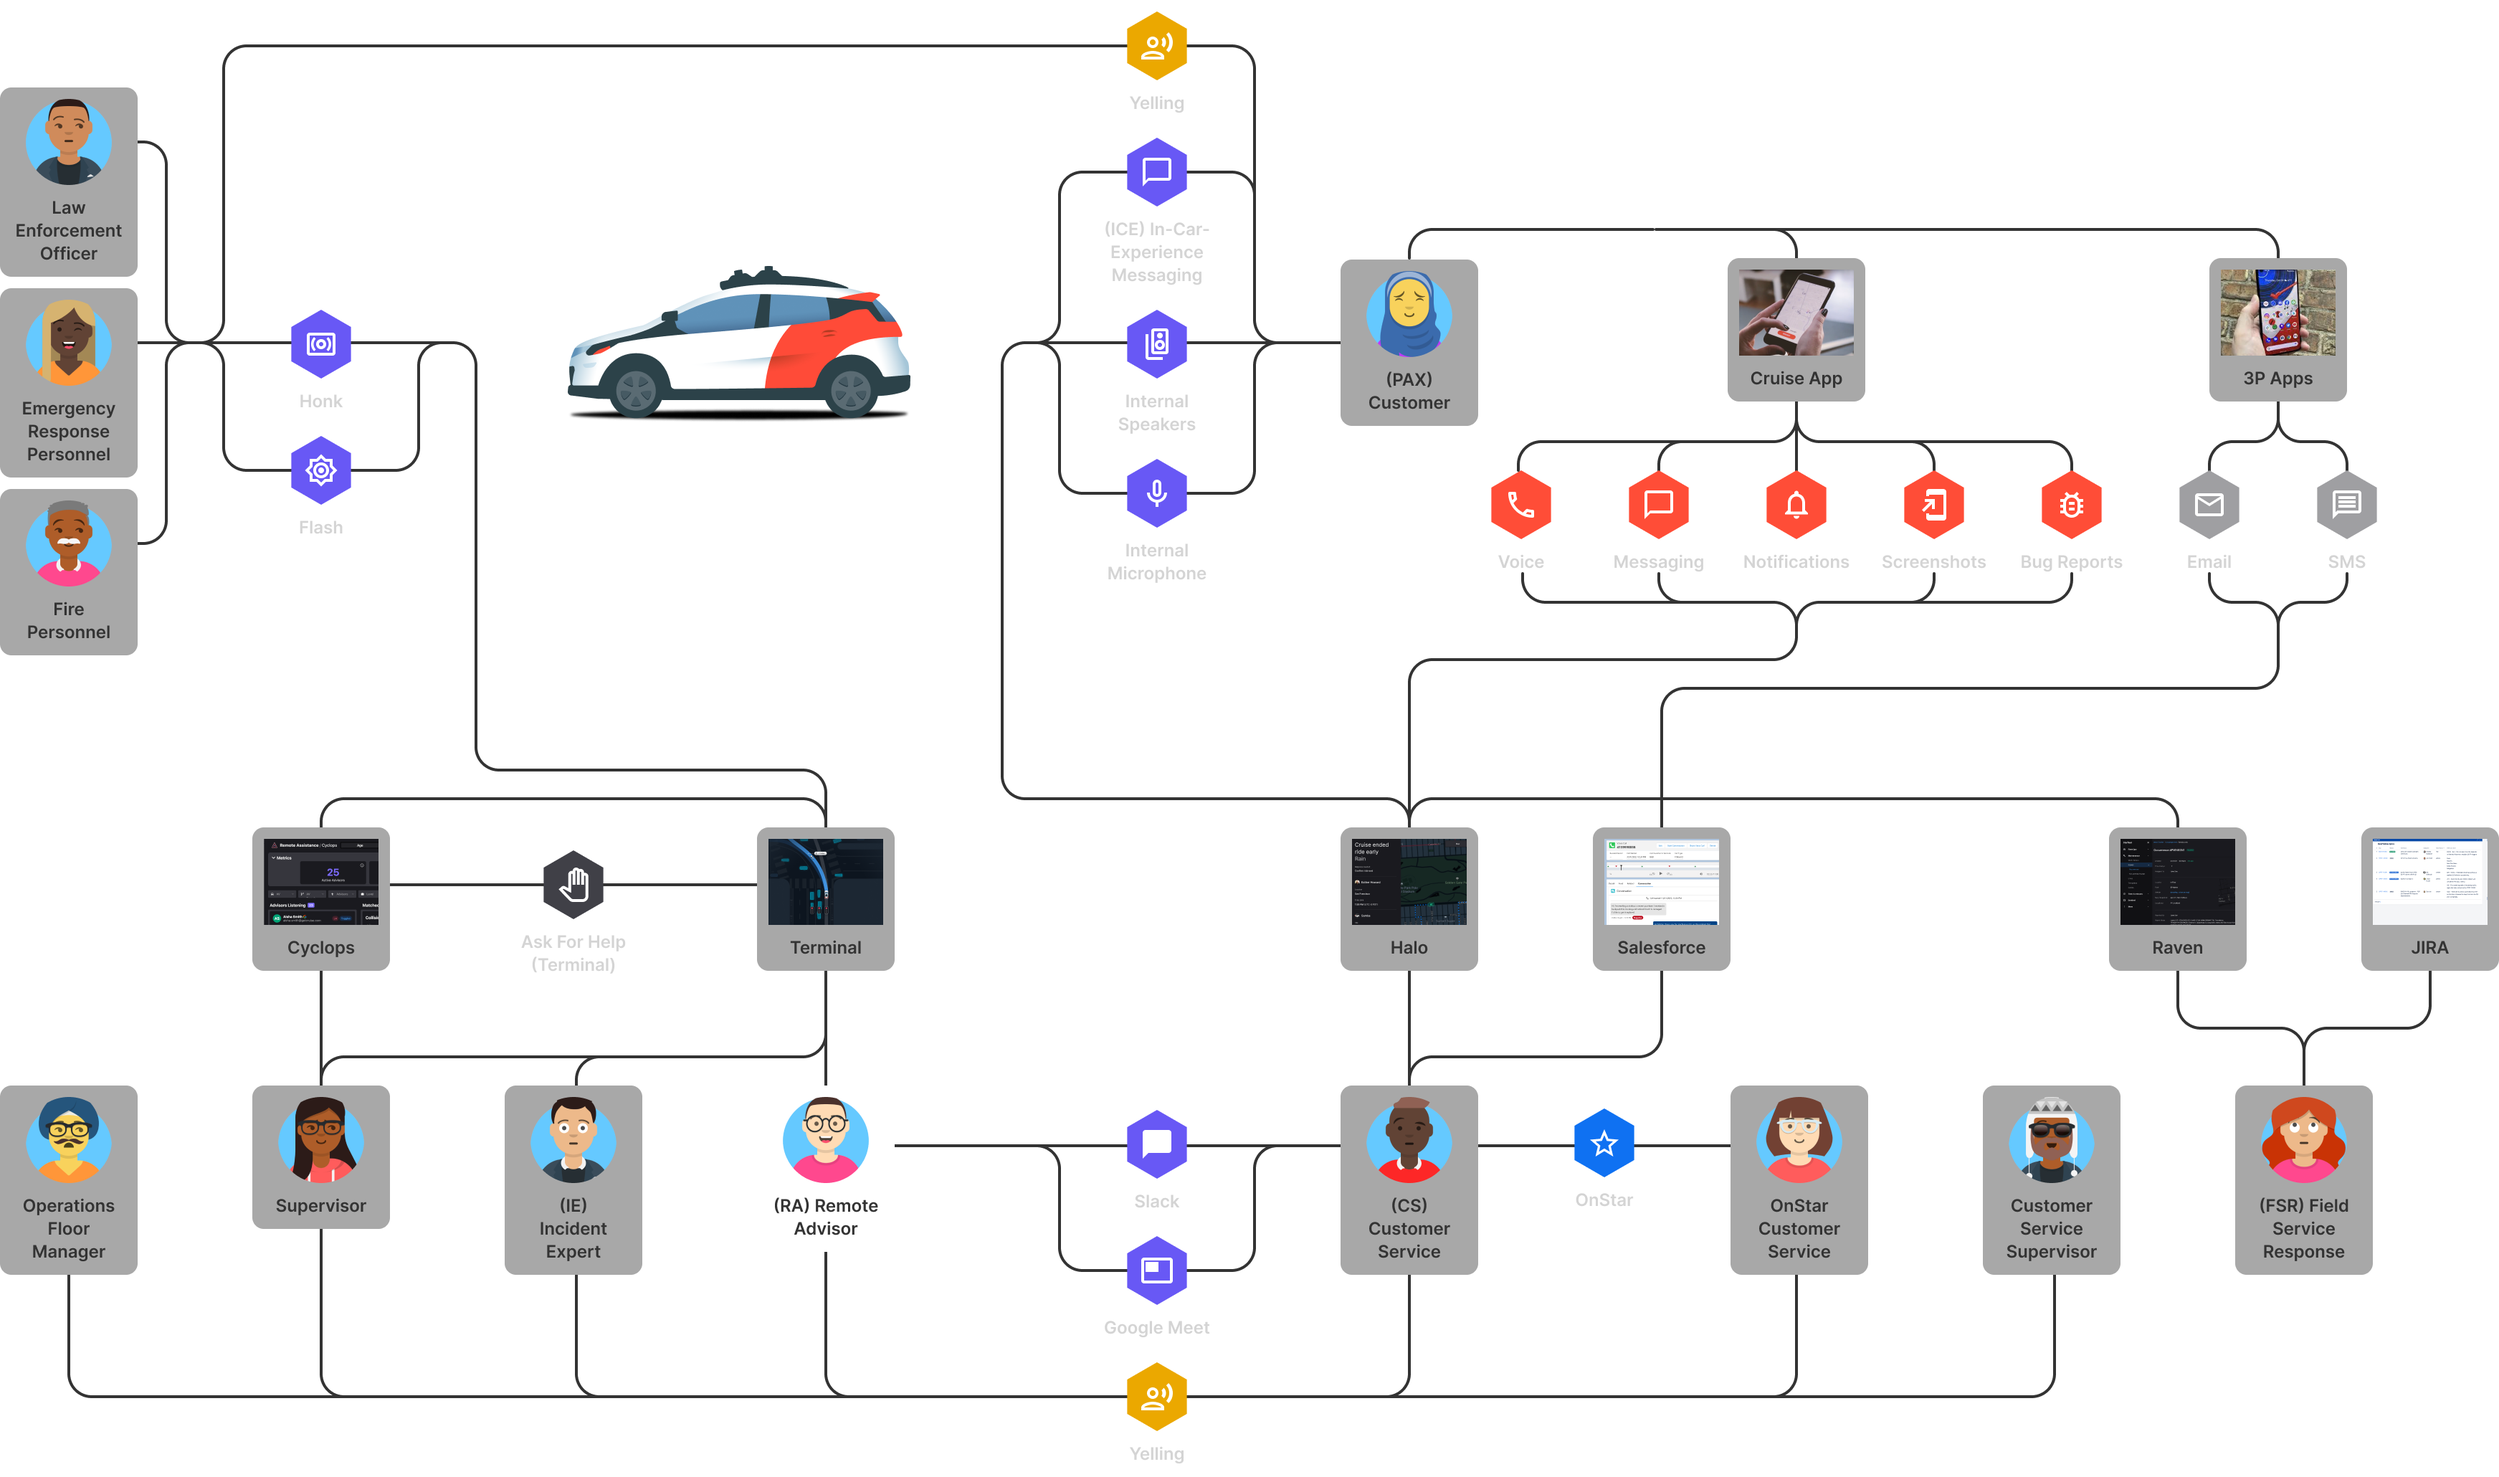
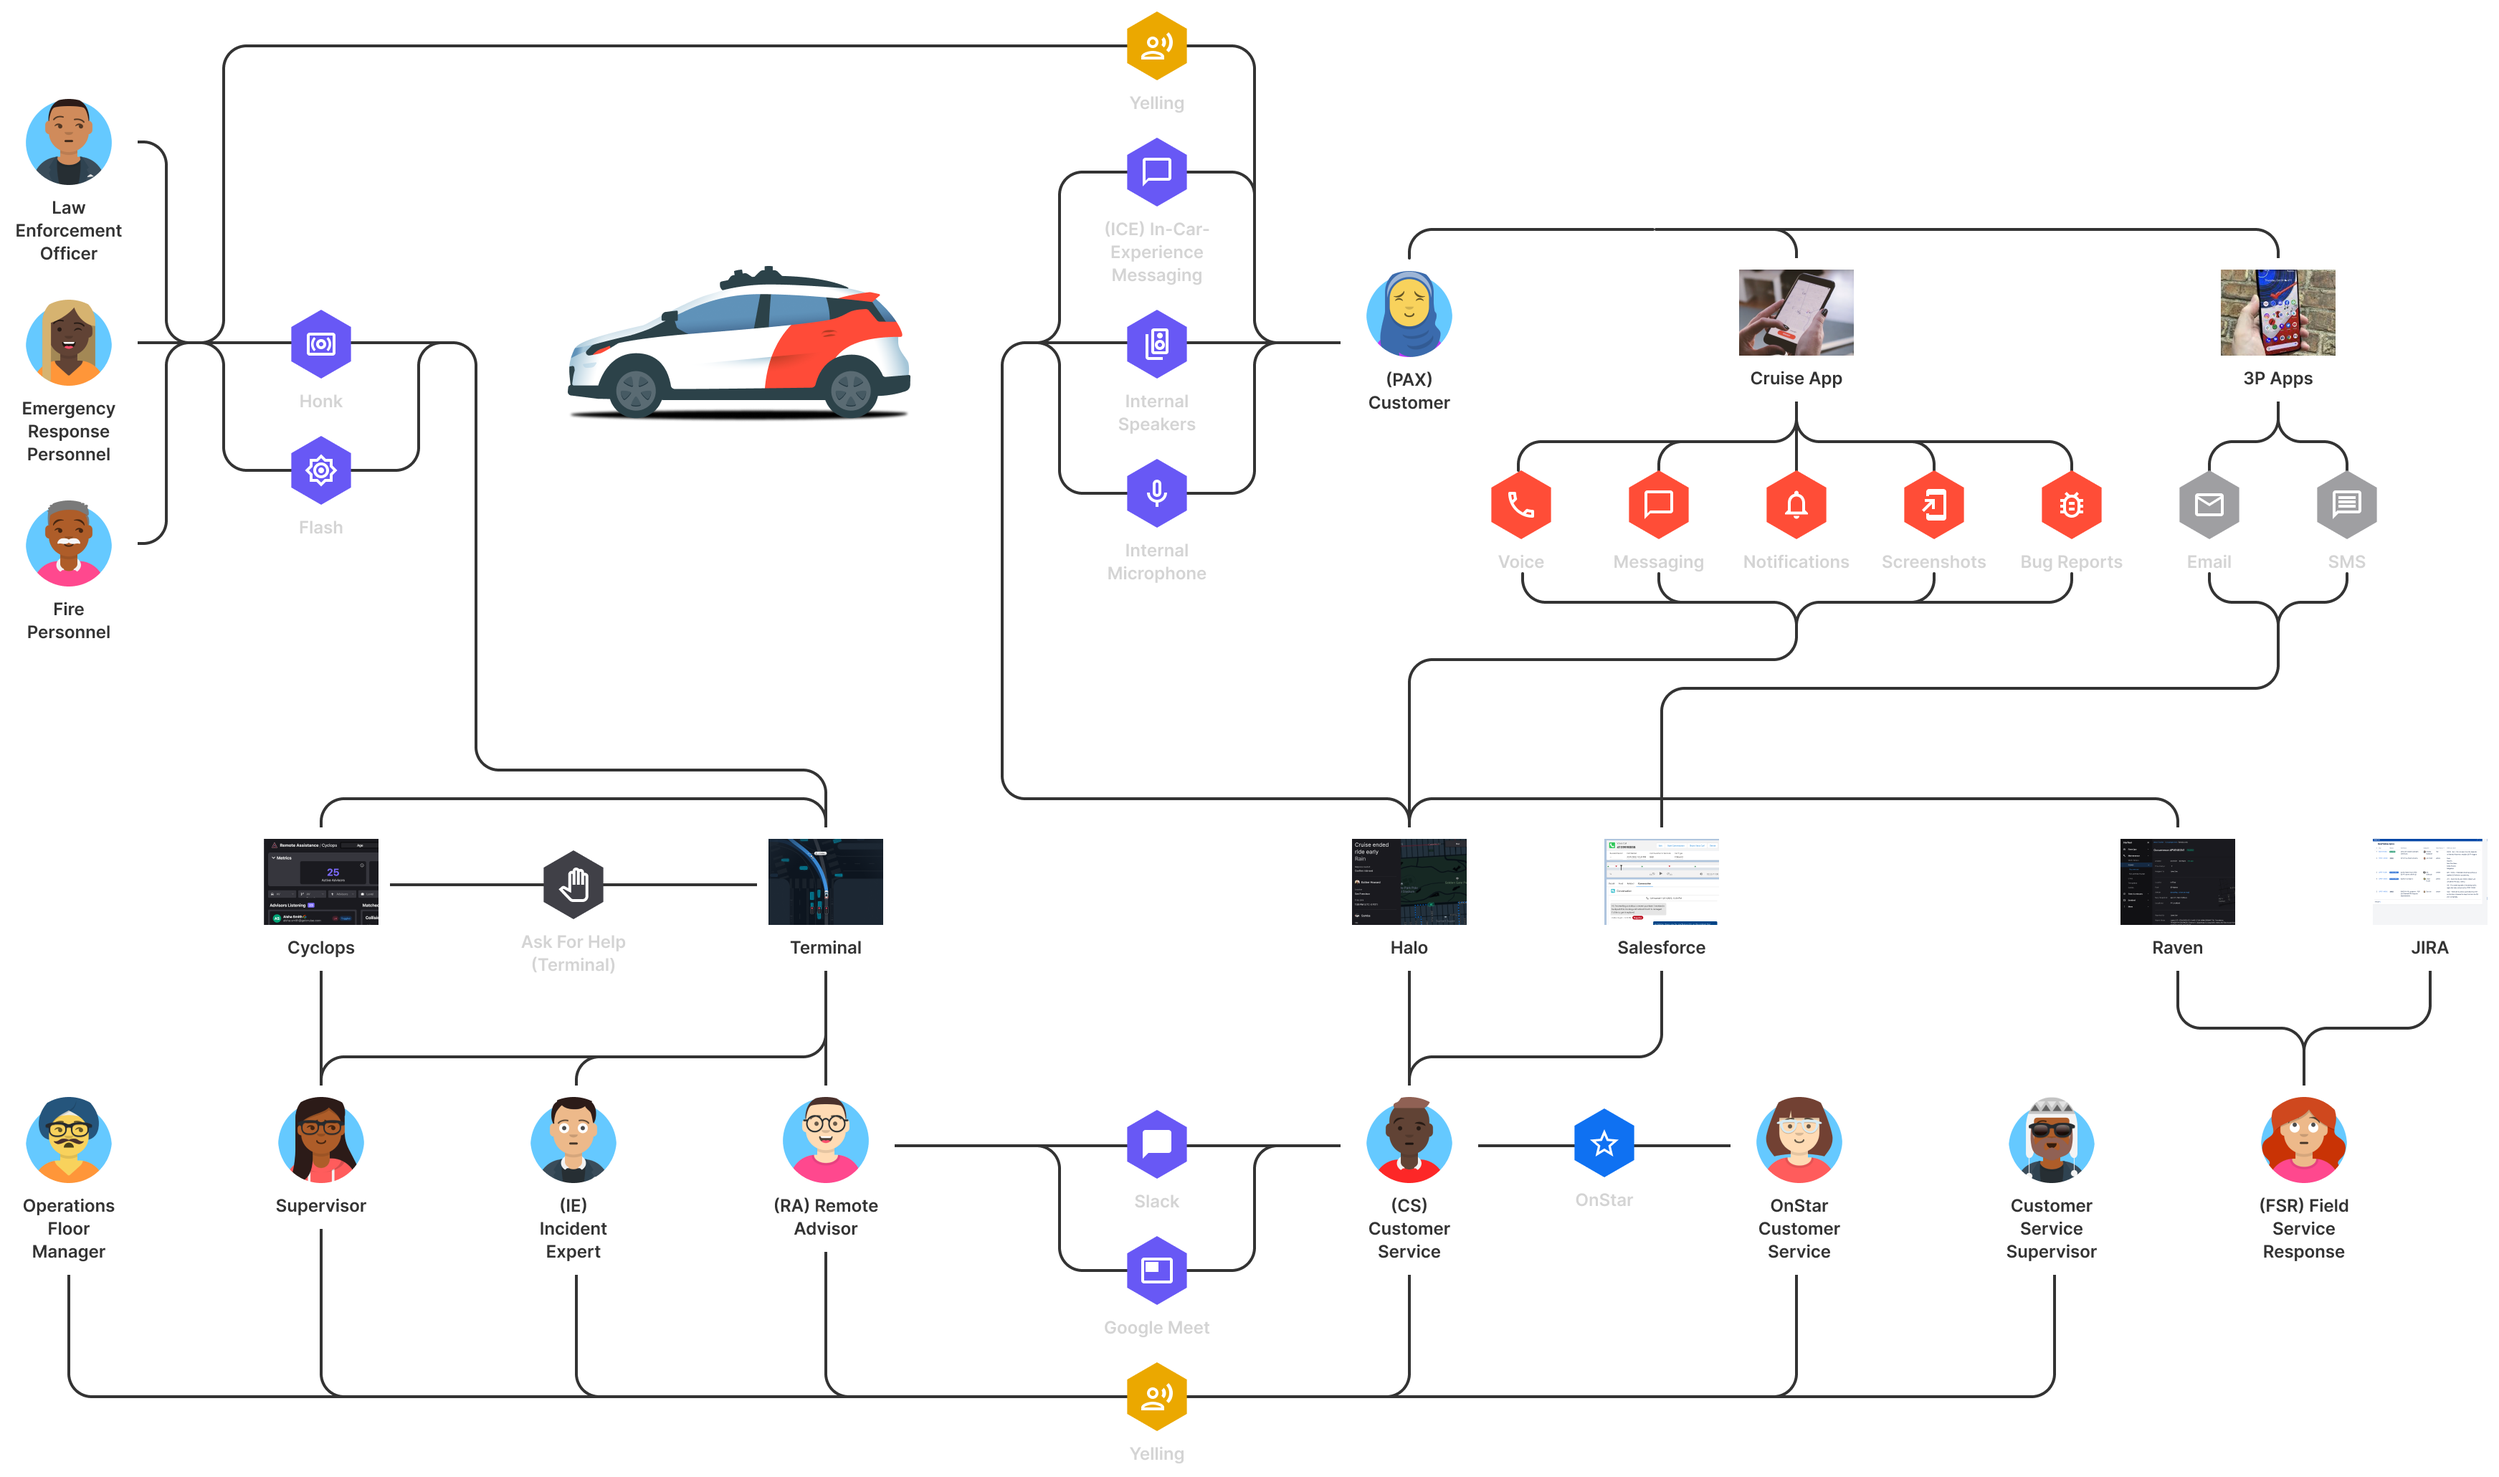
Fix mobile case-study snap so oversized rows stay reachable.
Relax detail to proximity on touch, settle deck focus after snap, and land Cruise copy plus home-slate reorder.

diff --git a/src/components/case-studies/case-study-detail-scroll.tsx b/src/components/case-studies/case-study-detail-scroll.tsx
@@ -1,7 +1,6 @@
 "use client";
 
 import {
-  useCallback,
   useEffect,
   useLayoutEffect,
   useRef,
@@ -13,10 +12,6 @@ import {
   useCaseStudyDetailScrollRegister,
   type CaseStudyDetailStep,
 } from "@/components/case-studies/case-study-detail-scroll-context";
-import {
-  VCHAPTER_PANEL_EVENT,
-  type VchapterPanelEventDetail,
-} from "@/components/craft/vignette-chapter";
 import {
   CHROME_SURFACE_ATTR,
   type ChromeSurface,
@@ -51,26 +46,6 @@ function syncChromeSurfaceFromStep(
   document.body.dataset.chromeDotsSurface = surface;
 }
 
-/** Dot-nav jumps: vignette filmstrips below the target start reset to panel 1. */
-function resetVignettesBelowStep(
-  steps: CaseStudyDetailStep[],
-  targetIndex: number,
-) {
-  for (let i = targetIndex + 1; i < steps.length; i++) {
-    const step = steps[i];
-    if (!step || step.kind !== "vignette") continue;
-
-    const section = document.getElementById(step.id);
-    if (!section?.classList.contains("vchapter")) continue;
-
-    section.dispatchEvent(
-      new CustomEvent<VchapterPanelEventDetail>(VCHAPTER_PANEL_EVENT, {
-        detail: { panelIndex: 0, smooth: false },
-      }),
-    );
-  }
-}
-
 type CaseStudyDetailScrollProps = {
   steps: CaseStudyDetailStep[];
   children: ReactNode;
@@ -103,28 +78,12 @@ export function CaseStudyDetailScroll({
     },
   });
 
-  const scrollToStep = useCallback(
-    (index: number) => {
-      resetVignettesBelowStep(steps, index);
-      goToStep(index);
-    },
-    [steps, goToStep],
-  );
-
-  const scrollToPanel = useCallback(
-    (stepIndex: number, panelIndex: number) => {
-      resetVignettesBelowStep(steps, stepIndex);
-      goToPanel(stepIndex, panelIndex);
-    },
-    [steps, goToPanel],
-  );
-
   useCaseStudyDetailScrollRegister(
     true,
     steps,
     activeIndex,
-    scrollToStep,
-    scrollToPanel,
+    goToStep,
+    goToPanel,
     true,
     hoverStep,
     setHoverStep,
@@ -246,7 +205,7 @@ export function CaseStudyDetailScroll({
         return;
       }
 
-      scrollToStep(stepIndex);
+      goToStep(stepIndex);
     };
 
     document.addEventListener("pointermove", onPointerMove, { passive: true });
@@ -257,7 +216,7 @@ export function CaseStudyDetailScroll({
       root.removeEventListener("click", onClick);
       root.classList.remove("is-peek-cursor");
     };
-  }, [scrollToStep, goToPanel, steps]);
+  }, [goToStep, goToPanel, steps]);
 
   return (
     <article ref={rootRef} className="cs-detail">

diff --git a/src/content/portfolio.ts b/src/content/portfolio.ts
@@ -1207,7 +1207,7 @@ export const caseStudies: CaseStudy[] = [
           cruiseMedia(
             "Alpha Test",
             "An early alpha test of the new Terminal bento-box design.",
-            "1x1",
+            "16x9",
             {
               vimeo: "1214738786",
               vimeoBackground: true,
@@ -1505,7 +1505,7 @@ export const caseStudies: CaseStudy[] = [
       cruiseProse(
         "cruise-intervention",
         "3 seconds.", // heading / rail label
-        "By the time Cruise was running 500+ autonomous rides daily in San Francisco, human interventions had to complete in three seconds or less: connect, understand the blockage, issue an instruction, get moving. Everything below, what shipped and what didn't, only makes sense against that clock.",
+        "By the time Cruise was running 500+ autonomous rides daily in San Francisco, human interventions had to complete in three seconds or less: connect, understand the blockage, issue an instruction, get moving.",
         { variant: "figure-stack", stat: "3 seconds" },
       ),
       cruiseVignette(
@@ -1516,7 +1516,7 @@ export const caseStudies: CaseStudy[] = [
         [
           cruiseBeat(
             "The problem",
-            "By the time Cruise was running 500+ autonomous rides daily in San Francisco, human interventions had to complete in three seconds or less: connect, understand the blockage, issue an instruction, and get moving. Due to a lack of feedback from the vehicle, our Remote Advisors only trusted controls that were deterministic.",
+            "Due to a lack of feedback from the vehicle, our Remote Advisors only trusted controls that were deterministic.",
           ),
 
           cruiseMedia(
@@ -1586,7 +1586,7 @@ export const caseStudies: CaseStudy[] = [
 
           cruiseBeat(
             "First principles",
-            "*Trust the AV.* What if the Remote Advisor didn't have to instruct the vehicle at all? At any moment the AV's planning stack has already solved multiple paths forward, it just picks one and discards the rest. Could we use that?",
+            "*Trust the AV.*\n\nWhat if the Remote Advisor didn't have to instruct the vehicle at all? At any moment the AV's planning stack has already solved multiple paths forward, it just picks one and discards the rest. Could we use that?",
           ),
 
           cruiseMedia(

diff --git a/src/app/globals.css b/src/app/globals.css
@@ -884,24 +884,22 @@ html:has(.home-scroll:not(.home-scroll--static), .cs-index-scroll, .cs-detail) {
   overscroll-behavior-y: none;
 }
 
-html:has(.cs-detail) {
-  scroll-padding-top: var(--chrome-top-inset);
-}
-
 @media (max-width: 1023px) {
   html:has(.home-scroll:not(.home-scroll--static), .cs-index-scroll) {
     scroll-padding-top: 0;
   }
 
-  /* Detail stays MANDATORY on mobile so the vertical vignette stack snaps one
-     panel per swipe (full-viewport panels + scroll-snap-stop:always). A long
-     prose row can exceed the viewport, but because that row is itself a snap
-     target larger than the snapport, the browser's oversized-snap-area handling
-     still lets it scroll through and rest mid-row under mandatory (verified) —
-     so the old proximity workaround is no longer needed. Kept as an explicit,
-     detail-scoped statement of intent (matches the base rule's specificity). */
-  html:has(.cs-detail .cs-section--prose) {
-    scroll-snap-type: y mandatory;
+  /* Detail relaxes to PROXIMITY on mobile. Rows and stacked vignette panels
+     have content-driven heights, and several (long prose, tall media, long
+     quotes) exceed the viewport. Under MANDATORY, a swipe from deep inside an
+     oversized row snaps to the next target on real devices — iOS ignores the
+     oversized covering range at gesture end when neighbors carry
+     scroll-snap-stop:always — so the bottom of long content is unreachable.
+     Proximity keeps clean panel-top landings for viewport-sized panels while
+     letting oversized content scroll through and rest anywhere. (Selector depth
+     matches the base rule's specificity so source order wins.) */
+  html:has(.cs-detail [data-cs-detail-row]) {
+    scroll-snap-type: y proximity;
   }
 }
 

diff --git a/src/content/site.ts b/src/content/site.ts
@@ -129,17 +129,17 @@ export const site = {
       },
       {
         id: "slate-5",
-        eyebrow: "New tools, again",
-        headline: "Flash & Photoshop to Sketch & InVision to Figma & Framer to Cursor & Claude.",
+        eyebrow: "Systems",
+        headline: "Then design became infrastructure",
         supporting:
-          "Every few years, a new tool and a new way to prototype, and a tweak to how I practiced my craft.",
+          "Design systems turned one-off screens into shared, scalable foundations which was infrastructure businesses relied on.",
       },
       {
         id: "slate-6",
-        eyebrow: "Systems",
-        headline: "Then design became infrastructure.",
+        eyebrow: "New tools, again",
+        headline: "Flash & Photoshop, to Sketch & InVision, to Figma & Framer, to Cursor & Claude.",
         supporting:
-          "Design systems turned one-off screens into shared, scalable foundations. Infrastructure businesses relied on.",
+          "Every few years, a new tool and a new way to prototype, and a tweak to how I practiced my craft.",
       },
       //{
         //id: "slate-7",

diff --git a/src/components/case-studies/use-case-study-deck.ts b/src/components/case-studies/use-case-study-deck.ts
@@ -202,11 +202,17 @@ export function useCaseStudyDeck({
     };
 
     window.addEventListener("scroll", onScroll, { passive: true });
+    // Post-settle sync: scroll-snap can adjust the rest position after the last
+    // scroll event's rAF tick (e.g. the correction at the end of a smooth
+    // dot-nav jump). scrollend fires once the position is final; where the
+    // event is unsupported the rAF path above still covers it.
+    window.addEventListener("scrollend", syncActive, { passive: true });
     window.addEventListener("resize", onScroll, { passive: true });
     window.addEventListener("keydown", onKeyDown);
 
     return () => {
       window.removeEventListener("scroll", onScroll);
+      window.removeEventListener("scrollend", syncActive);
       window.removeEventListener("resize", onScroll);
       window.removeEventListener("keydown", onKeyDown);
       if (rafRef.current) cancelAnimationFrame(rafRef.current);

diff --git a/src/components/deck/use-panel-deck.ts b/src/components/deck/use-panel-deck.ts
@@ -40,7 +40,12 @@ function panelSnapY(el: HTMLElement): number {
  * Active = panel whose snap-start is the greatest position ≤ (scrollY + topInset).
  */
 export function computeActiveIndex(panelIds: string[], topInset: number): number {
-  const anchorAbs = window.scrollY + topInset;
+  /* Tolerance for fractional layout: row heights (and so row tops) can be
+     fractional while snapped scroll positions quantize to integer/half pixels,
+     leaving a rest a fraction of a px above a row's snap-start. Without slack
+     the row filling the viewport fails the comparison and the previous row
+     keeps the dot + focus. */
+  const anchorAbs = window.scrollY + topInset + 2;
   const maxScroll =
     document.documentElement.scrollHeight - window.innerHeight;
 
